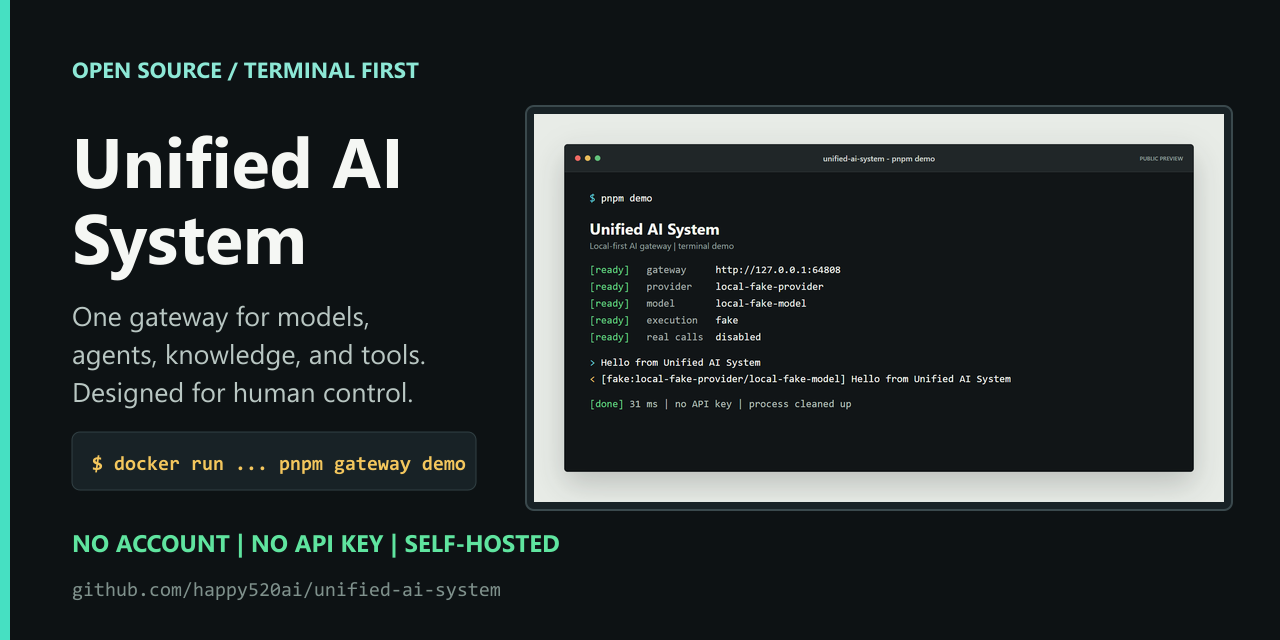
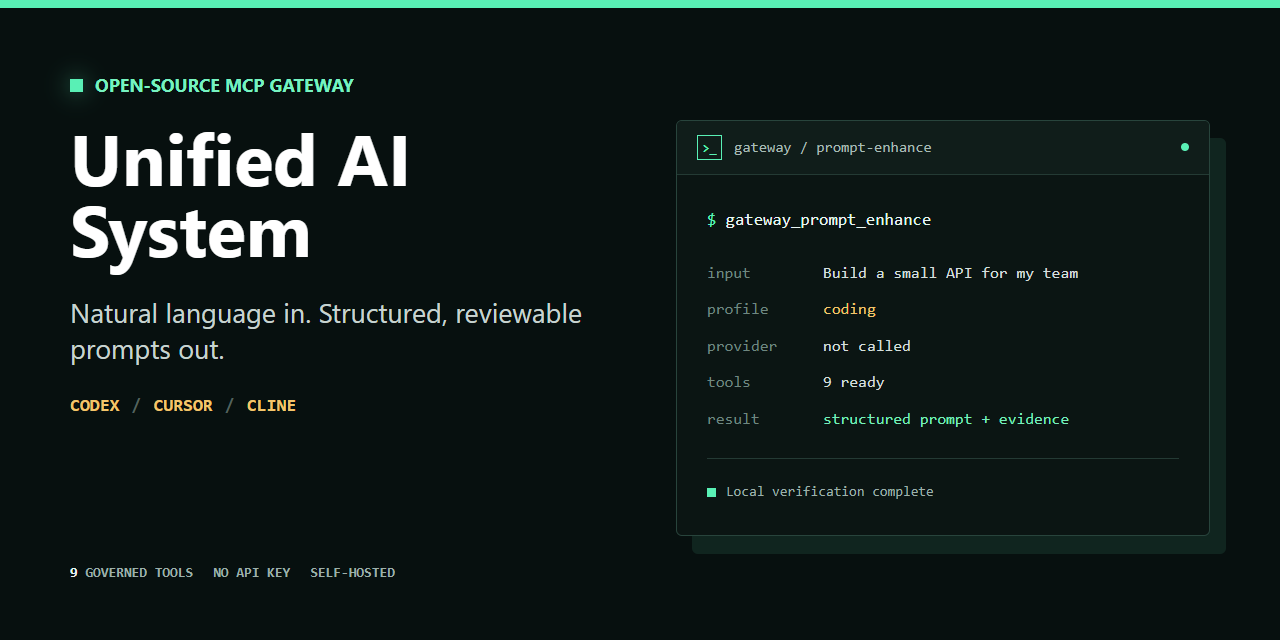
docs: refresh MCP gateway social preview

diff --git a/docs/assets/social-preview-source.html b/docs/assets/social-preview-source.html
@@ -1,0 +1,258 @@
+<!doctype html>
+<html lang="en">
+  <head>
+    <meta charset="utf-8" />
+    <meta name="viewport" content="width=device-width, initial-scale=1" />
+    <title>Unified AI System social preview</title>
+    <style>
+      :root {
+        color-scheme: dark;
+        font-family: "Segoe UI", Arial, sans-serif;
+        background: #07100f;
+        color: #f1f5f4;
+      }
+
+      * {
+        box-sizing: border-box;
+      }
+
+      html,
+      body {
+        width: 1280px;
+        height: 640px;
+        margin: 0;
+        overflow: hidden;
+      }
+
+      body {
+        position: relative;
+        background: #07100f;
+      }
+
+      .frame {
+        position: relative;
+        display: grid;
+        grid-template-columns: 1.02fr 0.98fr;
+        gap: 50px;
+        width: 100%;
+        height: 100%;
+        padding: 68px 70px 60px;
+        border-top: 8px solid #59f0b5;
+      }
+
+      .copy {
+        display: flex;
+        min-width: 0;
+        flex-direction: column;
+      }
+
+      .eyebrow {
+        display: flex;
+        align-items: center;
+        gap: 12px;
+        margin: 0 0 27px;
+        color: #77f2c0;
+        font-size: 18px;
+        font-weight: 700;
+        line-height: 1;
+        text-transform: uppercase;
+      }
+
+      .eyebrow::before {
+        width: 13px;
+        height: 13px;
+        content: "";
+        background: #59f0b5;
+        box-shadow: 0 0 22px rgba(89, 240, 181, 0.55);
+      }
+
+      h1 {
+        max-width: 560px;
+        margin: 0;
+        color: #ffffff;
+        font-size: 72px;
+        font-weight: 760;
+        line-height: 0.99;
+        letter-spacing: 0;
+      }
+
+      .promise {
+        max-width: 540px;
+        margin: 30px 0 0;
+        color: #c7d4d0;
+        font-size: 27px;
+        font-weight: 450;
+        line-height: 1.34;
+        letter-spacing: 0;
+      }
+
+      .clients {
+        display: flex;
+        align-items: center;
+        gap: 12px;
+        margin-top: 28px;
+        color: #f3c56c;
+        font-family: Consolas, "Courier New", monospace;
+        font-size: 18px;
+        font-weight: 700;
+      }
+
+      .clients span {
+        color: #52615d;
+      }
+
+      .proof {
+        display: flex;
+        gap: 20px;
+        margin-top: auto;
+        color: #9eb0aa;
+        font-family: Consolas, "Courier New", monospace;
+        font-size: 14px;
+        font-weight: 700;
+        line-height: 1;
+        text-transform: uppercase;
+      }
+
+      .proof strong {
+        color: #ecf4f1;
+        font-weight: 700;
+      }
+
+      .terminal {
+        align-self: center;
+        width: 100%;
+        overflow: hidden;
+        border: 1px solid #28443c;
+        border-radius: 6px;
+        background: #0b1513;
+        box-shadow: 16px 18px 0 #10251f;
+      }
+
+      .terminal-bar {
+        display: flex;
+        align-items: center;
+        height: 54px;
+        padding: 0 20px;
+        border-bottom: 1px solid #243a34;
+        background: #101d1a;
+      }
+
+      .terminal-mark {
+        display: grid;
+        width: 25px;
+        height: 25px;
+        margin-right: 12px;
+        place-items: center;
+        border: 1px solid #59f0b5;
+        color: #59f0b5;
+        font-family: Consolas, "Courier New", monospace;
+        font-size: 13px;
+        font-weight: 700;
+      }
+
+      .terminal-title {
+        color: #a7bbb5;
+        font-family: Consolas, "Courier New", monospace;
+        font-size: 15px;
+      }
+
+      .status {
+        width: 8px;
+        height: 8px;
+        margin-left: auto;
+        border-radius: 50%;
+        background: #59f0b5;
+      }
+
+      .terminal-body {
+        padding: 30px 30px 31px;
+        font-family: Consolas, "Courier New", monospace;
+        font-size: 16px;
+        line-height: 1.72;
+      }
+
+      .command {
+        margin: 0 0 25px;
+        color: #eaf7f3;
+        font-size: 17px;
+      }
+
+      .prompt {
+        color: #59f0b5;
+      }
+
+      .row {
+        display: grid;
+        grid-template-columns: 104px minmax(0, 1fr);
+        gap: 12px;
+        margin: 9px 0;
+      }
+
+      .label {
+        color: #6f8780;
+      }
+
+      .value {
+        color: #d5dfdc;
+      }
+
+      .value.accent {
+        color: #f3c56c;
+      }
+
+      .value.success {
+        color: #78edbb;
+      }
+
+      .terminal-footer {
+        display: flex;
+        align-items: center;
+        gap: 10px;
+        margin-top: 26px;
+        padding-top: 21px;
+        border-top: 1px solid #243a34;
+        color: #9db0aa;
+        font-size: 14px;
+      }
+
+      .terminal-footer::before {
+        width: 9px;
+        height: 9px;
+        content: "";
+        background: #59f0b5;
+      }
+    </style>
+  </head>
+  <body>
+    <main class="frame" aria-label="Unified AI System social preview">
+      <section class="copy">
+        <p class="eyebrow">Open-source MCP gateway</p>
+        <h1>Unified AI System</h1>
+        <p class="promise">Natural language in. Structured, reviewable prompts out.</p>
+        <div class="clients">CODEX <span>/</span> CURSOR <span>/</span> CLINE</div>
+        <div class="proof">
+          <span><strong>9</strong> governed tools</span>
+          <span>No API key</span>
+          <span>Self-hosted</span>
+        </div>
+      </section>
+
+      <section class="terminal" aria-label="Prompt enhancement terminal evidence">
+        <header class="terminal-bar">
+          <span class="terminal-mark">&gt;_</span>
+          <span class="terminal-title">gateway / prompt-enhance</span>
+          <span class="status" aria-hidden="true"></span>
+        </header>
+        <div class="terminal-body">
+          <p class="command"><span class="prompt">$</span> gateway_prompt_enhance</p>
+          <div class="row"><span class="label">input</span><span class="value">Build a small API for my team</span></div>
+          <div class="row"><span class="label">profile</span><span class="value accent">coding</span></div>
+          <div class="row"><span class="label">provider</span><span class="value">not called</span></div>
+          <div class="row"><span class="label">tools</span><span class="value">9 ready</span></div>
+          <div class="row"><span class="label">result</span><span class="value success">structured prompt + evidence</span></div>
+          <div class="terminal-footer">Local verification complete</div>
+        </div>
+      </section>
+    </main>
+  </body>
+</html>

diff --git a/docs/codex-mcp-docker-quickstart.html b/docs/codex-mcp-docker-quickstart.html
@@ -56,7 +56,7 @@
     <meta property="og:image:type" content="image/png" />
     <meta property="og:image:width" content="1280" />
     <meta property="og:image:height" content="640" />
-    <meta property="og:image:alt" content="Unified AI System terminal demo" />
+    <meta property="og:image:alt" content="Unified AI System MCP gateway and prompt enhancement preview" />
     <meta property="article:published_time" content="2026-08-02T00:00:00+00:00" />
     <meta property="article:modified_time" content="2026-08-10T00:00:00+00:00" />
     <meta name="twitter:card" content="summary_large_image" />
@@ -69,7 +69,7 @@
       name="twitter:image"
       content="https://happy520ai.github.io/unified-ai-system/assets/social-preview.png"
     />
-    <meta name="twitter:image:alt" content="Unified AI System terminal demo" />
+    <meta name="twitter:image:alt" content="Unified AI System MCP gateway and prompt enhancement preview" />
 
     <link rel="stylesheet" href="site.css" />
     <script type="application/ld+json">

diff --git a/docs/terminal-first-ai-gateway.html b/docs/terminal-first-ai-gateway.html
@@ -44,7 +44,7 @@
     <meta property="og:image:type" content="image/png" />
     <meta property="og:image:width" content="1280" />
     <meta property="og:image:height" content="640" />
-    <meta property="og:image:alt" content="Unified AI System terminal demo" />
+    <meta property="og:image:alt" content="Unified AI System MCP gateway and prompt enhancement preview" />
     <meta property="article:published_time" content="2026-08-02T00:00:00+00:00" />
     <meta property="article:modified_time" content="2026-08-02T00:00:00+00:00" />
     <meta name="twitter:card" content="summary_large_image" />
@@ -57,7 +57,7 @@
       name="twitter:image"
       content="https://happy520ai.github.io/unified-ai-system/assets/social-preview.png"
     />
-    <meta name="twitter:image:alt" content="Unified AI System terminal demo" />
+    <meta name="twitter:image:alt" content="Unified AI System MCP gateway and prompt enhancement preview" />
 
     <link rel="stylesheet" href="site.css" />
     <script type="application/ld+json">

diff --git a/docs/codex-mcp-docker-quickstart.zh-CN.html b/docs/codex-mcp-docker-quickstart.zh-CN.html
@@ -57,7 +57,7 @@
     <meta property="og:image:type" content="image/png" />
     <meta property="og:image:width" content="1280" />
     <meta property="og:image:height" content="640" />
-    <meta property="og:image:alt" content="Unified AI System 终端演示" />
+    <meta property="og:image:alt" content="Unified AI System MCP 网关与提示词增强预览" />
     <meta property="article:published_time" content="2026-08-02T00:00:00+00:00" />
     <meta property="article:modified_time" content="2026-08-10T00:00:00+00:00" />
     <meta name="twitter:card" content="summary_large_image" />
@@ -70,7 +70,7 @@
       name="twitter:image"
       content="https://happy520ai.github.io/unified-ai-system/assets/social-preview.png"
     />
-    <meta name="twitter:image:alt" content="Unified AI System 终端演示" />
+    <meta name="twitter:image:alt" content="Unified AI System MCP 网关与提示词增强预览" />
 
     <link rel="stylesheet" href="site.css" />
     <script type="application/ld+json">

diff --git a/docs/index.html b/docs/index.html
@@ -37,7 +37,7 @@
     <meta property="og:image:type" content="image/png" />
     <meta property="og:image:width" content="1280" />
     <meta property="og:image:height" content="640" />
-    <meta property="og:image:alt" content="Unified AI System terminal demo" />
+    <meta property="og:image:alt" content="Unified AI System MCP gateway and prompt enhancement preview" />
     <meta name="twitter:card" content="summary_large_image" />
     <meta name="twitter:title" content="Unified AI System | Self-hosted MCP gateway for Codex, Cursor &amp; Cline" />
     <meta
@@ -48,7 +48,7 @@
       name="twitter:image"
       content="https://happy520ai.github.io/unified-ai-system/assets/social-preview.png"
     />
-    <meta name="twitter:image:alt" content="Unified AI System terminal demo" />
+    <meta name="twitter:image:alt" content="Unified AI System MCP gateway and prompt enhancement preview" />
 
     <link rel="stylesheet" href="site.css?v=prompt-lab-6" />
     <script type="application/ld+json">

diff --git a/docs/index.zh-CN.html b/docs/index.zh-CN.html
@@ -38,7 +38,7 @@
     <meta property="og:image:type" content="image/png" />
     <meta property="og:image:width" content="1280" />
     <meta property="og:image:height" content="640" />
-    <meta property="og:image:alt" content="Unified AI System 终端演示" />
+    <meta property="og:image:alt" content="Unified AI System MCP 网关与提示词增强预览" />
     <meta name="twitter:card" content="summary_large_image" />
     <meta name="twitter:title" content="Unified AI System｜面向 Codex、Cursor、Cline 的开源 MCP AI 网关" />
     <meta
@@ -49,7 +49,7 @@
       name="twitter:image"
       content="https://happy520ai.github.io/unified-ai-system/assets/social-preview.png"
     />
-    <meta name="twitter:image:alt" content="Unified AI System 终端演示" />
+    <meta name="twitter:image:alt" content="Unified AI System MCP 网关与提示词增强预览" />
 
     <link rel="stylesheet" href="site.css?v=prompt-lab-6" />
     <script type="application/ld+json">

diff --git a/CHANGELOG.md b/CHANGELOG.md
@@ -9,6 +9,8 @@ and the project uses [Semantic Versioning](https://semver.org/).
 
 ### Documentation
 
+- Refreshed the reproducible social preview around the MCP gateway, Codex,
+  prompt enhancement, and the nine governed tools.
 - Added copy-ready Windows PowerShell request-file commands to the bilingual
   README and community promotion paths.
 - Added a dedicated MCP client report template with required client, version,
